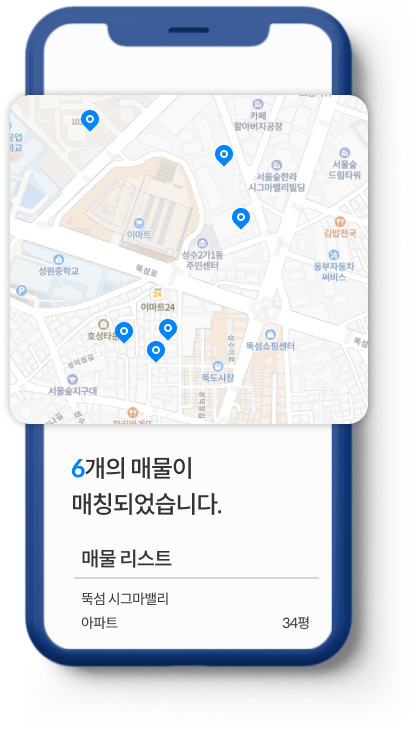
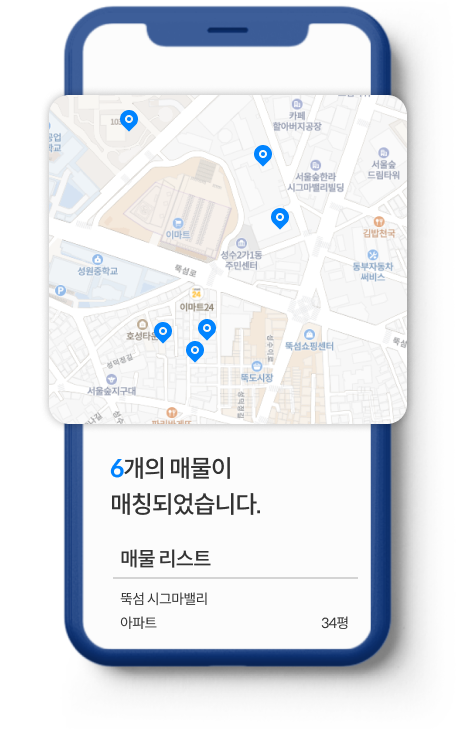
이미지 변경

diff --git a/responsive_prac/src/Components/home/SecondSection.js b/responsive_prac/src/Components/home/SecondSection.js
@@ -33,6 +33,7 @@ const Wrapper = styled.div`
     @media only screen and (max-width: ${MediaSize.Mobile_max}) {
         position: absolute;
         top: 0;
+        
         align-items: center;
 
         width: 100%;
@@ -63,6 +64,7 @@ const StyledTitle = styled(Title)`
 
         white-space: nowrap;
         color: #306CC3;
+
 
         font-size: 25px;
     }
@@ -129,12 +131,13 @@ const ContentText = styled.p`
 
 const ImageWrapper = styled.span`
     white-space: nowrap;
+    width: 50%;
 `;
 
 const Image = styled.div`
     display: inline-block;
 
-    width: 20.8vw;
+    width: 24vw;
     height: 38vw;
 
     margin: ${(props) => props.margin};
@@ -144,8 +147,8 @@ const Image = styled.div`
     background-repeat: no-repeat;
 
     @media only screen and (max-width: ${MediaSize.Mobile_max}) {
-        width: 196px;
-        height: 350px;
+        width: 223.95px;
+        height: 360px;
         
         margin: 0;
     }
@@ -160,12 +163,12 @@ function SecondSection() {
                     이용방법
                 </StyledTitle>
                 <Content>
-                    <TextContainer>
+                    <span>
                         <ContentTitle>01</ContentTitle>
                         <ContentText>
                             5분 질문지 작성으로 <br />찾고 있는 매물을 알려주세요.
                         </ContentText>
-                    </TextContainer>
+                    </span>
                     <Image 
                         margin="-25% 0 0 0"
                         image="SecondSection1.png"
@@ -174,11 +177,11 @@ function SecondSection() {
                 <Content>
                     <ImageWrapper>
                         <Image 
-                            margin="0 0 0 -30%"
+                            margin="0 0 0 -50%"
                             image="SecondSection2-1.png"
                         />
                         <Image 
-                            margin="0 0 0 0"
+                            margin="0 0 0 -10%"
                             image="SecondSection2-2.png"
                         />
                     </ImageWrapper>
